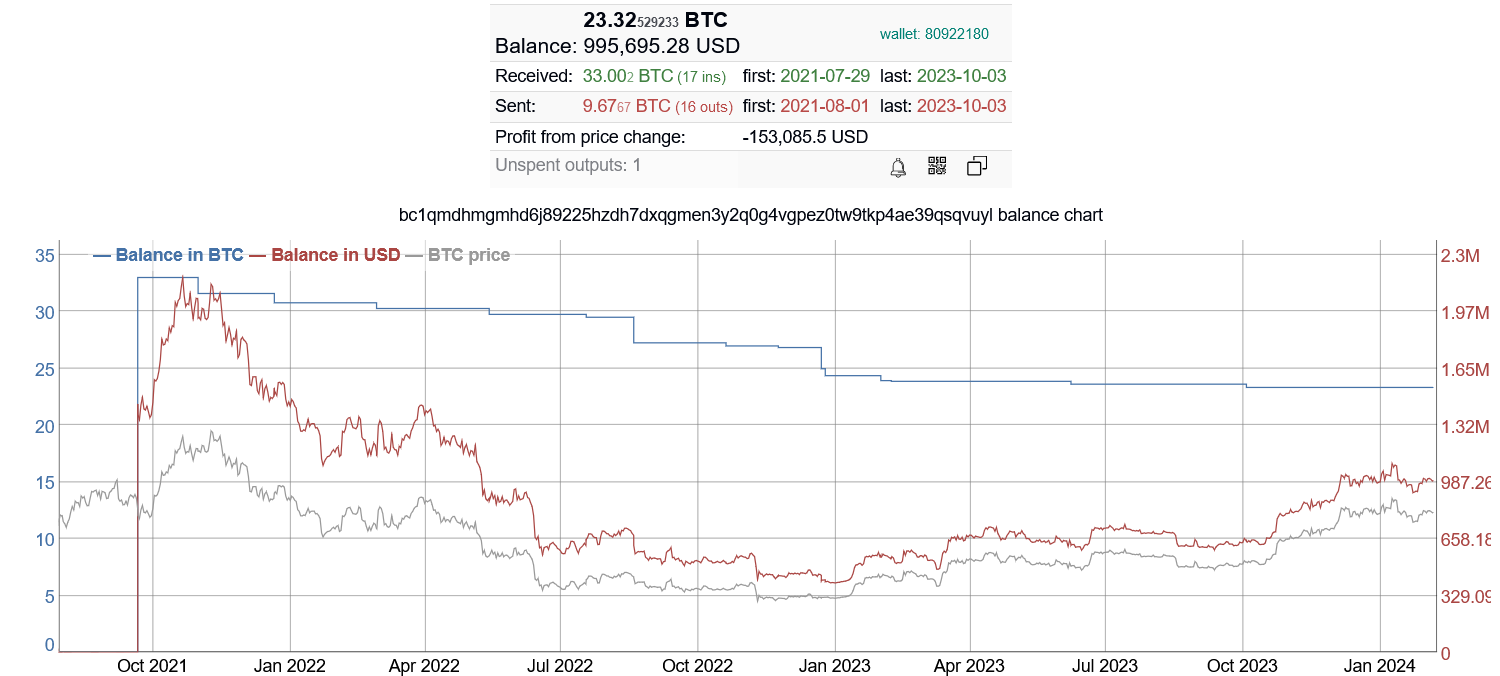
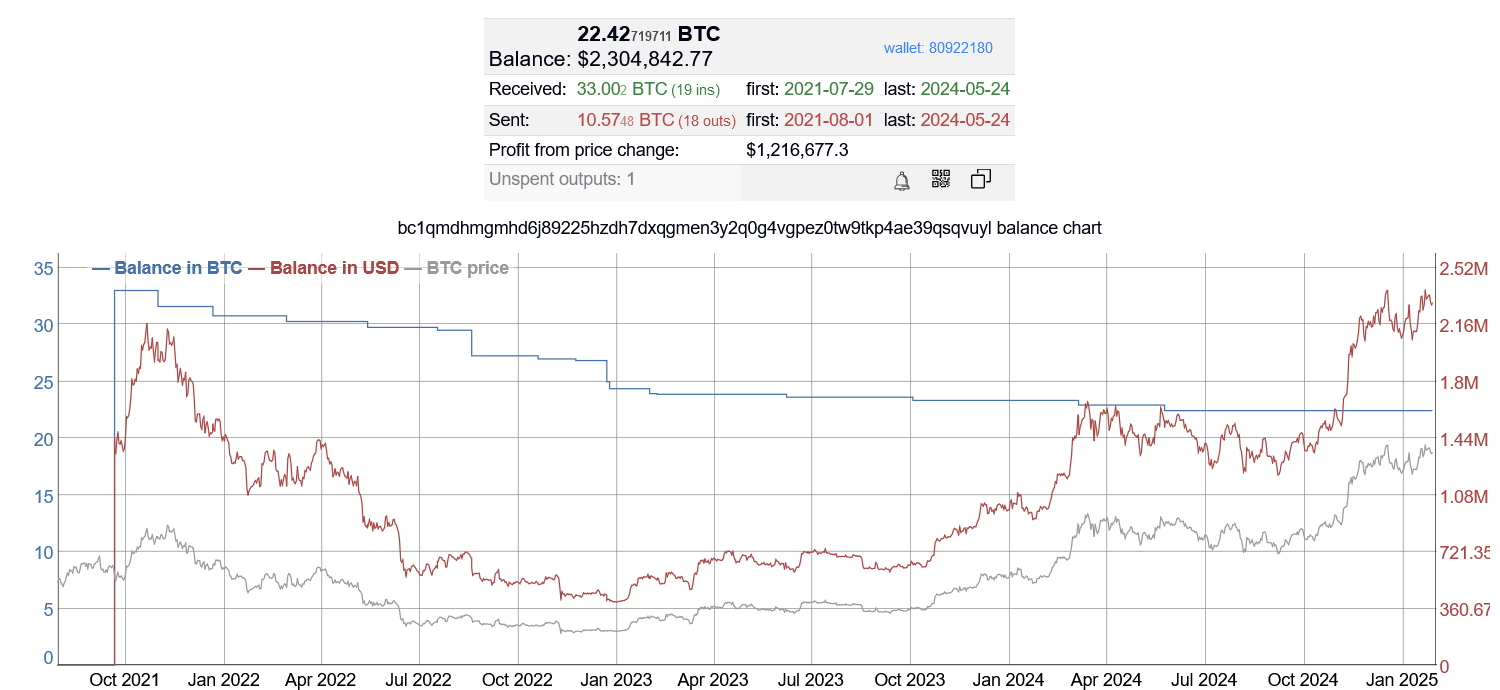
finance balance update,payment,spending logs updated.

diff --git a/payment-tracking.md b/payment-tracking.md
@@ -17,9 +17,9 @@
 |@cobragrin |[Request funding May-Aug/2023](https://forum.grin.mw/t/request-for-funding-cobragrin-may-aug-2023/10486/10)  | 6300 €  | 30.05.2023 |**0.2492384 BTC** %90 | 25,277€| Yes | **Paid** |
 |@cobragrin |[Request funding May-Aug/2023](https://forum.grin.mw/t/request-for-funding-cobragrin-may-aug-2023/10486/10)  | 700 €  | 30.05.2023 |**14692 GRIN** %10 | 0.0476 €| Yes | **Paid** |
 |@cobragrin |[Request funding Sep-Dec/2023](https://forum.grin.mw/t/request-for-funding-cobragrin-sep-dec-2023/10486/10)  | 7000 €  | 21.09.2023 |**0.28729813 BTC**  | 24,364 €| Yes | **Paid** |
-|@cobragrin |[Request funding 2024-2025](https://forum.grin.mw/t/request-for-funding-cobragrin-2024-2025/10949)  | 8750 €  | 27.02.2024 |**0.18886369   BTC**  |  46,329 €| Yes | **Pending** |
-|@renzokuken |[Donation Grinventions ](https://forum.grin.mw/t/should-the-cc-donate-to-grinvention-mimblewimble-py/10942/32)  | 10.000 €  | 01.03.2024 | **0.2158442 BTC**  |  46,329 €| Yes | **Pending**  |
-
+|@cobragrin |[Request funding 2024-2025](https://forum.grin.mw/t/request-for-funding-cobragrin-2024-2025/10949)  | 8750 €  | 27.02.2024 |**0.18886369   BTC**  |  46,329 €| Yes | **Paid** |
+|@renzokuken |[Donation Grinventions ](https://forum.grin.mw/t/should-the-cc-donate-to-grinvention-mimblewimble-py/10942/32)  | 10.000 €  | 01.03.2024 | **0.2158442 BTC**  |  46,329 €| Yes | **Paid**  |
+|@scilio |[Mwixnet implementation phase 3 ](https://forum.grin.mw/t/request-for-funding-scilio-coinswap-implementation/9149/92)  | 25.000 £  | 24.05.2024 | **0.49314924 BTC**  |  67,737 $| Yes | **Paid**  |
 
 GRINCC BTC Fund
 
